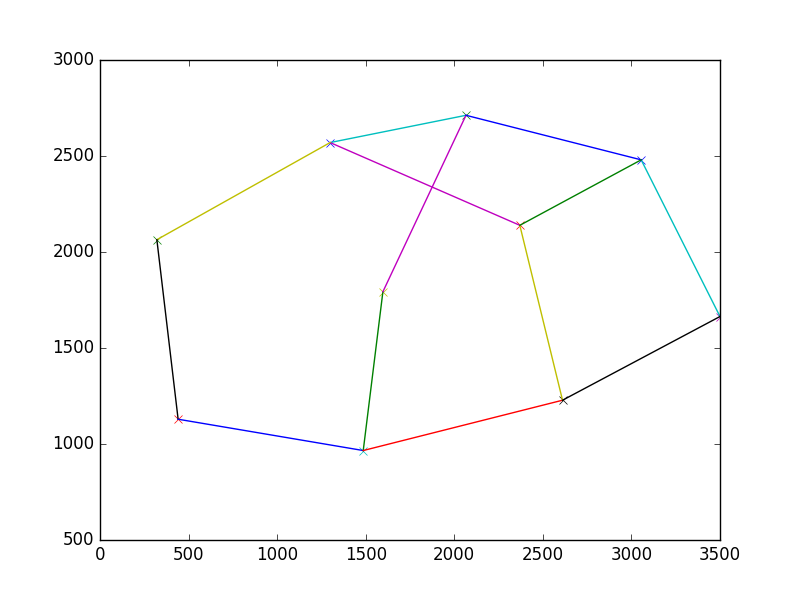
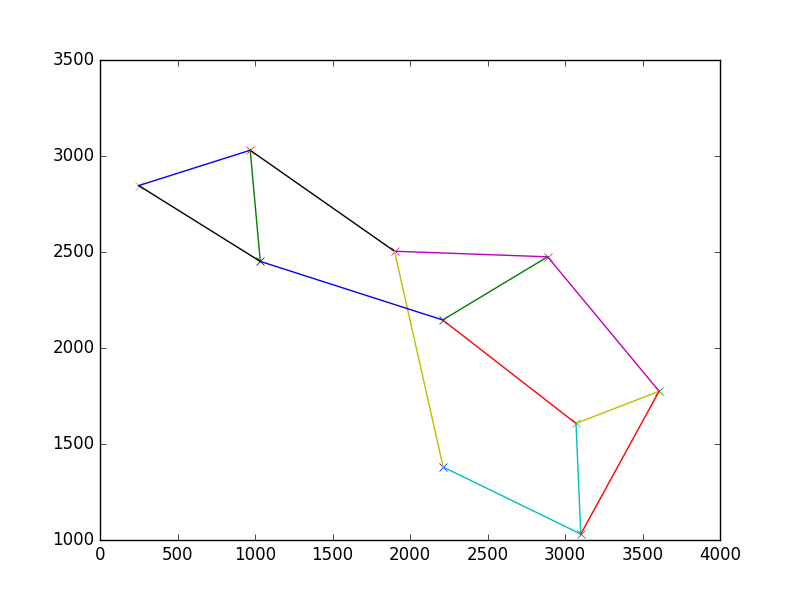
figuring out large screens

diff --git a/GraphGeneration/GraphForStudy.py b/GraphGeneration/GraphForStudy.py
@@ -19,9 +19,9 @@ buttons = np.array([1,2,4,3,4,2])
 n_tries = 100
 
 x_min = int(config["NodeData"]["NodeSize"])
-x_max = 3500 # int(config["GeneralParams"]["GraphSizeX"]) - int(config["NodeData"]["NodeSize"])
+x_max = 4000 # int(config["GeneralParams"]["GraphSizeX"]) - int(config["NodeData"]["NodeSize"])
 y_min = int(config["NodeData"]["NodeSize"])
-y_max = 3500 # int(config["GeneralParams"]["GraphSizeY"]) - int(config["NodeData"]["NodeSize"])
+y_max = 4000 # int(config["GeneralParams"]["GraphSizeY"]) - int(config["NodeData"]["NodeSize"])
 
 
 screen_types = {
